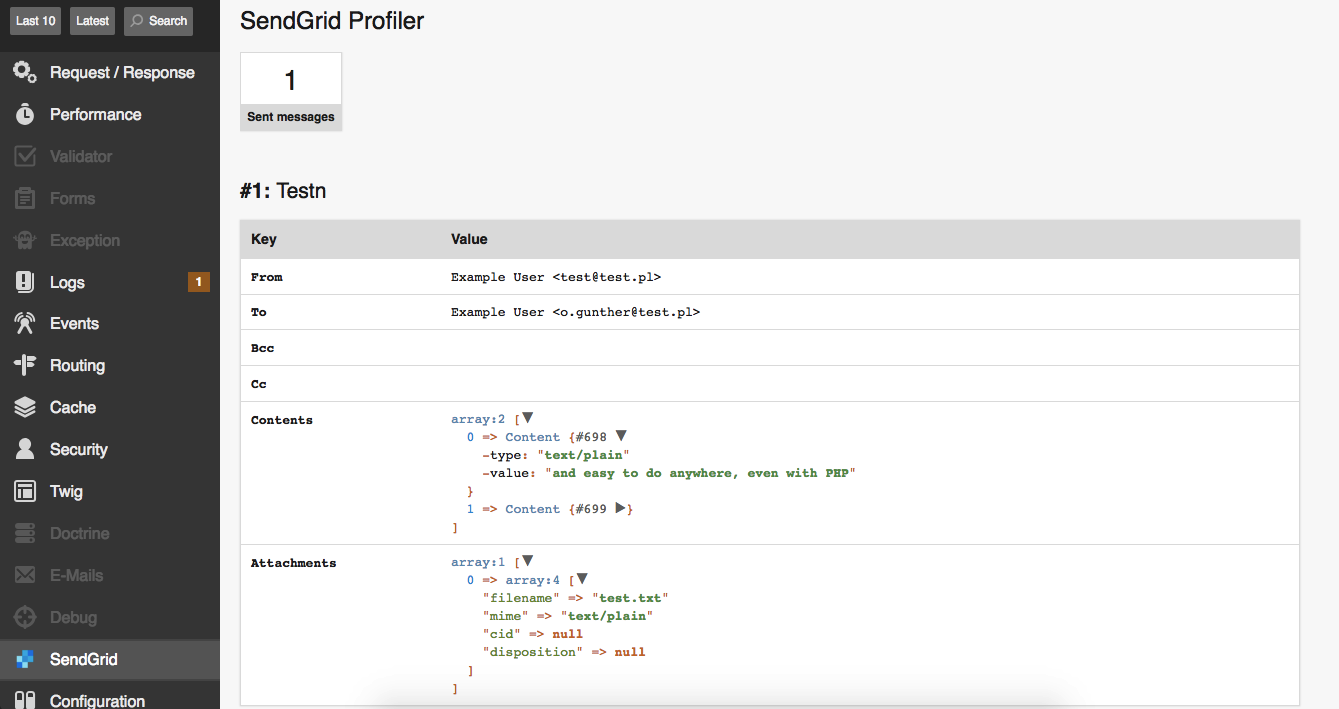
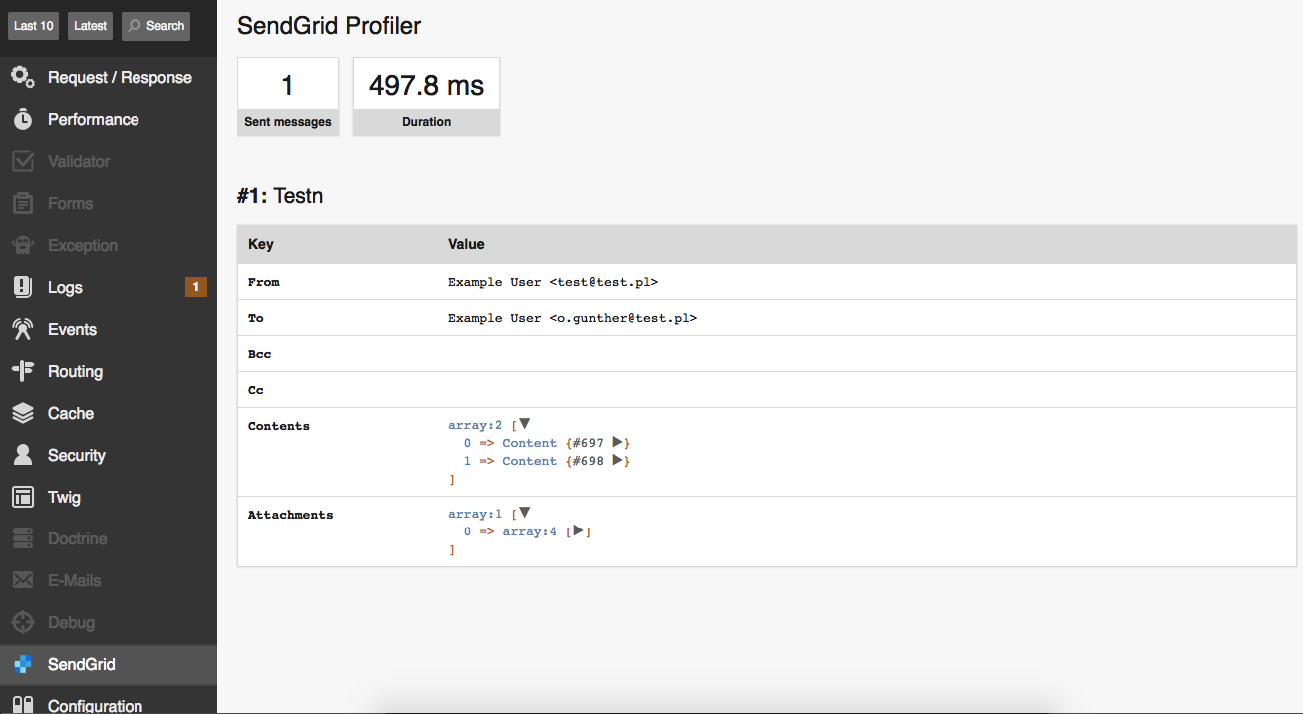
Performance

diff --git a/Provider/SendGridProvider.php b/Provider/SendGridProvider.php
@@ -11,9 +11,11 @@ use OG\SendGridBundle\Exception\UnauthorizedSendGridException;
 use \SendGrid\Mail\Mail;
 use OG\SendGridBundle\Exception\SendGridException;
 use SendGrid\Response;
+use Symfony\Component\Stopwatch\Stopwatch;
 
 class SendGridProvider
 {
+    const EVENT = 'sendgrid';
 
     /** @var \SendGrid */
     private $sendgrid;
@@ -27,18 +29,25 @@ class SendGridProvider
     /** @var boolean */
     private $webProfiler;
 
+    /** @var Stopwatch */
+    private $watch;
+
     /**
      * SendgridProvider constructor.
      * @param $apiKey string
      * @param $disableDelivery boolean
      * @param $webProfiler boolean
+     * @param $watch Stopwatch
      */
-    public function __construct($apiKey, $disableDelivery, $webProfiler)
+    public function __construct($apiKey, $disableDelivery, $webProfiler, Stopwatch $watch)
     {
         $this->sendgrid = new \SendGrid($apiKey);
         $this->disableDelivery = $disableDelivery;
         $this->webProfiler = $webProfiler;
         $this->messages = [];
+        if($webProfiler) {
+            $this->watch = $watch;
+        }
     }
 
     /**
@@ -56,6 +65,7 @@ class SendGridProvider
      */
     public function send(Mail $mail)
     {
+        $this->start();
         if($this->webProfiler) {
             $this->messages[] = $mail;
         }
@@ -74,12 +84,27 @@ class SendGridProvider
             throw new SendGridException($e->getMessage());
         }
 
+        $this->stop();
         return $response;
     }
 
     public function getSentMessages()
     {
         return $this->messages;
+    }
+
+    private function start()
+    {
+        if($this->webProfiler) {
+            $this->watch->start(self::EVENT);
+        }
+    }
+
+    private function stop()
+    {
+        if($this->webProfiler) {
+            $this->watch->stop(self::EVENT);
+        }
     }
 
     private function checkResponse(Response $response)

diff --git a/DataCollector/SendGridDataCollector.php b/DataCollector/SendGridDataCollector.php
@@ -14,6 +14,7 @@ use SendGrid\Mail\Mail;
 use Symfony\Component\HttpFoundation\Request;
 use Symfony\Component\HttpFoundation\Response;
 use Symfony\Component\HttpKernel\DataCollector\DataCollector;
+use Symfony\Component\Stopwatch\Stopwatch;
 
 class SendGridDataCollector extends DataCollector
 {
@@ -23,10 +24,14 @@ class SendGridDataCollector extends DataCollector
     /** @var boolean */
     private $webProfiler;
 
-    public function __construct(SendGridProvider $sendGridProvider, $webProfiler)
+    /** @var Stopwatch */
+    private $stopwatch;
+
+    public function __construct(SendGridProvider $sendGridProvider, $webProfiler, Stopwatch $stopwatch)
     {
         $this->sendGridProvider = $sendGridProvider;
         $this->webProfiler = $webProfiler;
+        $this->stopwatch = $stopwatch;
     }
 
     public function collect(Request $request, Response $response, \Exception $exception = null)
@@ -51,6 +56,7 @@ class SendGridDataCollector extends DataCollector
         }, $this->sendGridProvider->getSentMessages());
 
         $this->data['isEnabled'] = $this->webProfiler;
+        $this->data['duration'] = $this->stopwatch->getEvent(SendGridProvider::EVENT)->getDuration();
     }
 
     private function getRecipients(Mail $mail, $type)
@@ -95,4 +101,8 @@ class SendGridDataCollector extends DataCollector
         return $this->data['isEnabled'];
     }
 
+    public function getDuration()
+    {
+        return $this->data['duration'];
+    }
 }
